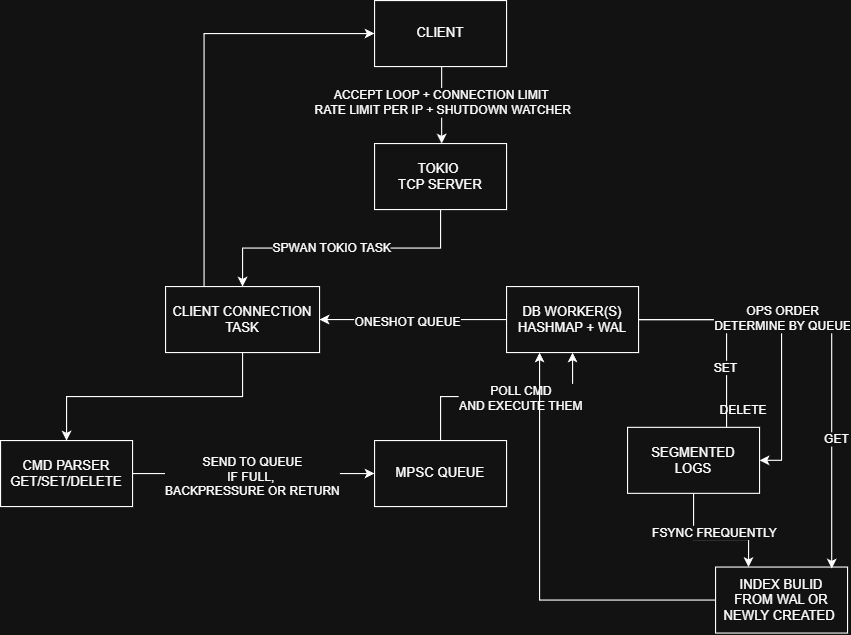
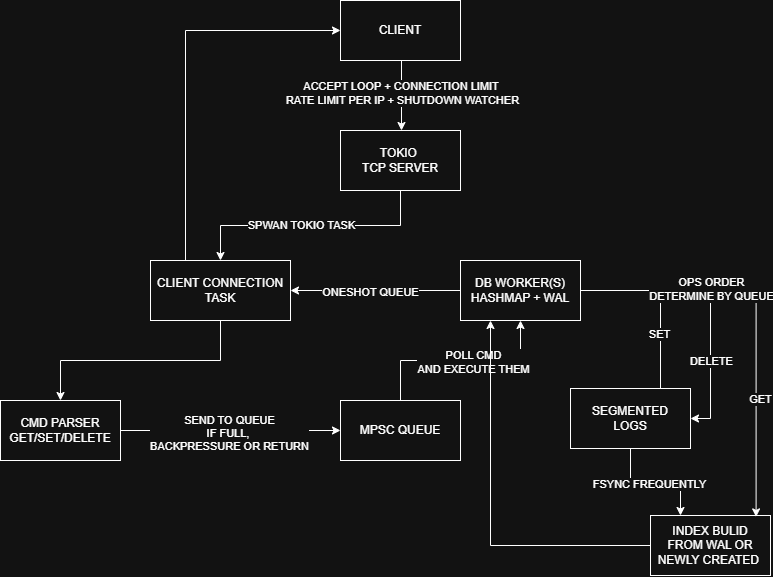
add PING and CLOSE to op, fixed handle_connection by adding loop exit behavior

diff --git a/src/bin/main.rs b/src/bin/main.rs
@@ -139,14 +139,14 @@ async fn run_server(
             }
             res = listener.accept() => {
                 match res {
-                    Ok((socket, addr)) => {
+                    Ok((mut socket, addr)) => {
                         debug!("Accepted connections from {}", addr);
                         active_connections.fetch_add(1, Ordering::AcqRel); // inc active connections count
                         let active_connections = active_connections.clone(); // clone for the spawned task, dec when returns
 
                         let client_handler = client_handler.clone();
                         tokio::spawn(async move {
-                            if let Err(e) = handle_client(socket, max_key_size, max_value_size, client_handler).await {
+                            if let Err(e) = handle_client(&mut socket, max_key_size, max_value_size, client_handler).await {
                                 error!("Error handling client (ip: {}): {:?}", addr, e);
                             };
                             active_connections.fetch_sub(1, Ordering::AcqRel);
@@ -176,90 +176,118 @@ async fn run_server(
 }
 
 pub async fn handle_client(
-    mut socket: TcpStream,
+    socket: &mut TcpStream,
     max_key_size: usize,
     max_value_size: usize,
     client_handler: mpsc::Sender<DatabaseOperation>,
 ) -> Result<()> {
-    let (worker_result, client_response) = oneshot::channel::<Result<Response>>();
-    socket.nodelay()?;
+    socket.nodelay()?; // disable Nagle's algorithm
 
-    let op = socket.read_u8().await?;
+    loop {
+        let (worker_result, client_response) = oneshot::channel::<Result<Response>>();
 
-    match Operation::from_u8(op) {
-        Some(op) => match op {
-            Operation::Get => {
-                let key_size = socket.read_u32_le().await? as usize;
-
-                // validate key size before reading the key from the socket
-                validate_key(key_size, max_key_size, &mut socket).await?;
-
-                let mut key_buf = BytesMut::with_capacity(key_size);
-                socket.read_exact(&mut key_buf).await?;
-
-                // send to DB worker via MPSC queue
-                // TODO; do sharding here later for better performance
-                client_handler
-                    .send(DatabaseOperation::GET {
-                        key: key_buf.freeze(),
-                        tx: worker_result,
-                    })
-                    .await?;
-
-                // wait for db to process result from DB worker and send response back to client
-                send_db_result_to_client(client_response, socket).await?;
+        let op = match socket.read_u8().await {
+            Ok(op) => op,
+            Err(e) if e.kind() == std::io::ErrorKind::UnexpectedEof => {
+                // client sends FIN, close the connection gracefully
+                break;
             }
-            Operation::Set => {
-                let key_size = socket.read_u32_le().await? as usize;
-                let value_size = socket.read_u32_le().await? as usize;
-
-                // validation for key and value
-                validate_key(key_size, max_key_size, &mut socket).await?;
-                validate_value(value_size, max_value_size, &mut socket).await?;
-
-                let mut key_buf = BytesMut::with_capacity(key_size);
-                socket.read_exact(&mut key_buf).await?;
-
-                let mut value_buf = BytesMut::with_capacity(value_size);
-                socket.read_exact(&mut value_buf).await?;
-
-                // send to DB worker
-                client_handler
-                    .send(DatabaseOperation::SET {
-                        key: key_buf.freeze(),
-                        value: value_buf.freeze(),
-                        tx: worker_result,
-                    })
-                    .await?;
-
-                // wait for response from DB worker and send back to client
-                send_db_result_to_client(client_response, socket).await?;
+            Err(e) => {
+                return Err(anyhow::anyhow!(
+                    "Failed to read operation code from client: {:?}",
+                    e
+                ));
             }
-            Operation::Delete => {
-                let key_size = socket.read_u32_le().await? as usize;
+        };
 
-                // validate key only, cuz its DELETE
-                validate_key(key_size, max_key_size, &mut socket).await?;
+        match Operation::from_u8(op) {
+            Some(op) => match op {
+                Operation::Get => {
+                    let key_size = socket.read_u32_le().await? as usize;
 
-                let mut key_buf = BytesMut::with_capacity(key_size);
-                socket.read_exact(&mut key_buf).await?;
+                    // validate key size before reading the key from the socket
+                    validate_key(key_size, max_key_size, socket).await?;
 
-                // send to DB worker(s)
-                client_handler
-                    .send(DatabaseOperation::DELETE {
-                        key: key_buf.freeze(),
-                        tx: worker_result,
-                    })
-                    .await?;
+                    let mut key_buf = BytesMut::zeroed(key_size);
+                    socket.read_exact(&mut key_buf).await?;
 
-                // wait for response from DB worker and send back to client
-                send_db_result_to_client(client_response, socket).await?;
+                    // send to DB worker via MPSC queue
+                    // TODO; do sharding here later for better performance
+                    client_handler
+                        .send(DatabaseOperation::GET {
+                            key: key_buf.freeze(),
+                            tx: worker_result,
+                        })
+                        .await?;
+
+                    // wait for db to process result from DB worker and send response back to client
+                    send_db_result_to_client(client_response, socket).await?;
+                }
+
+                Operation::Set => {
+                    let key_size = socket.read_u32_le().await? as usize;
+                    let value_size = socket.read_u32_le().await? as usize;
+
+                    // validation for key and value
+                    validate_key(key_size, max_key_size, socket).await?;
+                    validate_value(value_size, max_value_size, socket).await?;
+
+                    let mut key_buf = BytesMut::zeroed(key_size);
+                    socket.read_exact(&mut key_buf).await?;
+
+                    let mut value_buf = BytesMut::zeroed(value_size);
+                    socket.read_exact(&mut value_buf).await?;
+
+                    // send to DB worker
+                    client_handler
+                        .send(DatabaseOperation::SET {
+                            key: key_buf.freeze(),
+                            value: value_buf.freeze(),
+                            tx: worker_result,
+                        })
+                        .await?;
+
+                    // wait for response from DB worker and send back to client
+                    send_db_result_to_client(client_response, socket).await?;
+                }
+
+                Operation::Delete => {
+                    let key_size = socket.read_u32_le().await? as usize;
+
+                    // validate key only, cuz its DELETE
+                    validate_key(key_size, max_key_size, socket).await?;
+
+                    let mut key_buf = BytesMut::zeroed(key_size);
+                    socket.read_exact(&mut key_buf).await?;
+
+                    // send to DB worker(s)
+                    client_handler
+                        .send(DatabaseOperation::DELETE {
+                            key: key_buf.freeze(),
+                            tx: worker_result,
+                        })
+                        .await?;
+
+                    // wait for response from DB worker and send back to client
+                    send_db_result_to_client(client_response, socket).await?;
+                }
+
+                Operation::Ping => {
+                    // send back 'Pong' response with the same payload
+                    let rsp = Response::Pong(Bytes::from("Pong"));
+                    rsp.send_response(socket).await?;
+                }
+
+                Operation::Close => {
+                    // client wants to close the connection, break the loop and close gracefully
+                    break;
+                }
+            },
+            None => {
+                let rsp = Response::InvalidRequest(Bytes::from("Invalid operation code"));
+                rsp.send_response(socket).await?;
+                return Err(anyhow::anyhow!("Invalid operation code"));
             }
-        },
-        None => {
-            let rsp = Response::InvalidRequest(Bytes::from("Invalid operation code"));
-            rsp.send_response(&mut socket).await?;
-            return Err(anyhow::anyhow!("Invalid operation code"));
         }
     }
 
@@ -316,22 +344,22 @@ async fn validate_value(
 #[inline(always)]
 async fn send_db_result_to_client(
     client_response: oneshot::Receiver<Result<Response>>,
-    mut client_socket: TcpStream,
+    client_socket: &mut TcpStream,
 ) -> Result<()> {
     match client_response.await {
-        Ok(Ok(response)) => response.send_response(&mut client_socket).await,
+        Ok(Ok(response)) => response.send_response(client_socket).await,
         Ok(Err(e)) => {
             let rsp = Response::InternalError(Bytes::from(format!(
                 "Something went terribly wrong: {}",
                 e
             )));
-            rsp.send_response(&mut client_socket).await?;
+            rsp.send_response(client_socket).await?;
             Err(anyhow::anyhow!("Internal error: {}", e))
         }
         Err(_) => {
             let rsp =
                 Response::InternalError(Bytes::from("Failed to receive response from worker"));
-            rsp.send_response(&mut client_socket).await?;
+            rsp.send_response(client_socket).await?;
             Err(anyhow::anyhow!("Failed to receive response from worker"))
         }
     }

diff --git a/src/protocol.rs b/src/protocol.rs
@@ -9,6 +9,8 @@ pub enum Operation {
     Get,
     Set,
     Delete,
+    Ping,
+    Close,
 }
 
 impl Operation {
@@ -18,6 +20,8 @@ impl Operation {
             0 => Some(Operation::Get),
             1 => Some(Operation::Set),
             2 => Some(Operation::Delete),
+            3 => Some(Operation::Ping),
+            4 => Some(Operation::Close),
             _ => None,
         }
     }
@@ -27,6 +31,8 @@ impl Operation {
             Operation::Get => 0,
             Operation::Set => 1,
             Operation::Delete => 2,
+            Operation::Ping => 3,
+            Operation::Close => 4,
         }
     }
 }
@@ -35,6 +41,7 @@ impl Operation {
 #[derive(Debug, Clone, PartialEq, Eq)]
 pub enum Response {
     Ok(Bytes),
+    Pong(Bytes),
     KeyValue(Bytes),
     KeyNotFound(Bytes),
     InvalidRequest(Bytes),
@@ -43,7 +50,7 @@ pub enum Response {
 }
 
 impl Response {
-    /// Send the response over the given TCP stream.
+    /// Send the length-prefixed response over the given TCP stream.
     pub async fn send_response(&self, socket: &mut TcpStream) -> Result<()> {
         match self {
             Response::Ok(payload) => {
@@ -51,28 +58,33 @@ impl Response {
                 socket.write_u32_le(payload.len() as u32).await?;
                 socket.write_all(payload).await?;
             }
-            Response::KeyValue(payload) => {
+            Response::Pong(payload) => {
                 socket.write_u8(1).await?;
                 socket.write_u32_le(payload.len() as u32).await?;
                 socket.write_all(payload).await?;
             }
-            Response::KeyNotFound(payload) => {
+            Response::KeyValue(payload) => {
                 socket.write_u8(2).await?;
                 socket.write_u32_le(payload.len() as u32).await?;
                 socket.write_all(payload).await?;
             }
-            Response::InvalidRequest(payload) => {
+            Response::KeyNotFound(payload) => {
                 socket.write_u8(3).await?;
                 socket.write_u32_le(payload.len() as u32).await?;
                 socket.write_all(payload).await?;
             }
-            Response::PayloadTooLarge(payload) => {
+            Response::InvalidRequest(payload) => {
                 socket.write_u8(4).await?;
                 socket.write_u32_le(payload.len() as u32).await?;
                 socket.write_all(payload).await?;
             }
-            Response::InternalError(payload) => {
+            Response::PayloadTooLarge(payload) => {
                 socket.write_u8(5).await?;
+                socket.write_u32_le(payload.len() as u32).await?;
+                socket.write_all(payload).await?;
+            }
+            Response::InternalError(payload) => {
+                socket.write_u8(6).await?;
                 socket.write_u32_le(payload.len() as u32).await?;
                 socket.write_all(payload).await?;
             }

diff --git a/src/wal.rs b/src/wal.rs
@@ -163,7 +163,8 @@ impl Wal {
             })
             .await??;
 
-        // truncate torn/corrupt tail to last valid entry, and seek to end of valid entries for next append.
+        // truncate torn/corrupt tail to last valid entry,
+        // and seek to end of valid entries for next append
         if valid_file_len < file_len {
             file.set_len(valid_file_len).await?;
             file.sync_all().await.context("wal: fsync truncate")?;

diff --git a/README.md b/README.md
@@ -16,10 +16,12 @@ pub enum Operation {
     Get,
     Set,
     Delete,
+    Ping,
+    Close,
 }
 ```
 
-GET/SET/DELETE = 0x00/0x01/0x02 -
+GET/SET/DELETE/PING/CLOSE = 0x00/0x01/0x02/0x03/0x04 -
 `(1B op|4B key_length|4B value_length|key|value|)` (All are Little Endian)
 
 - Response
